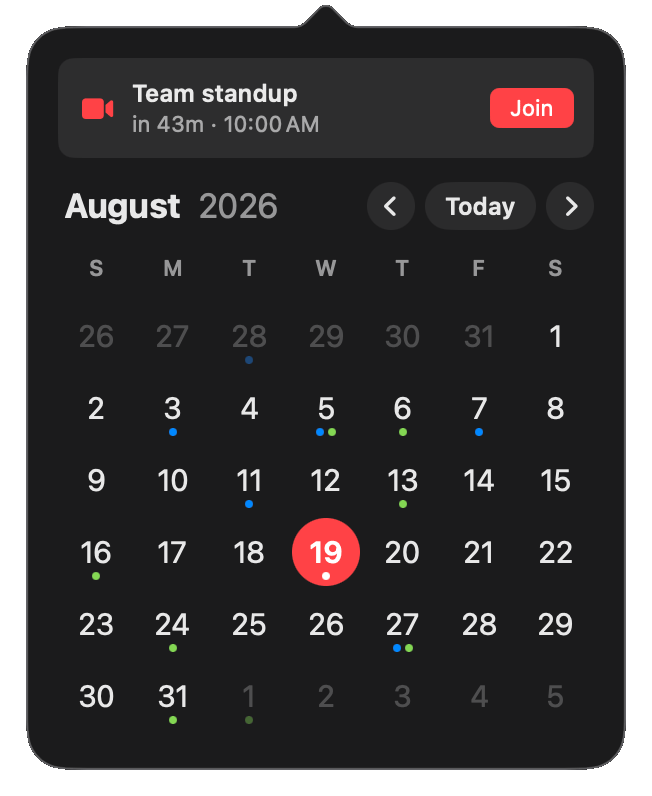
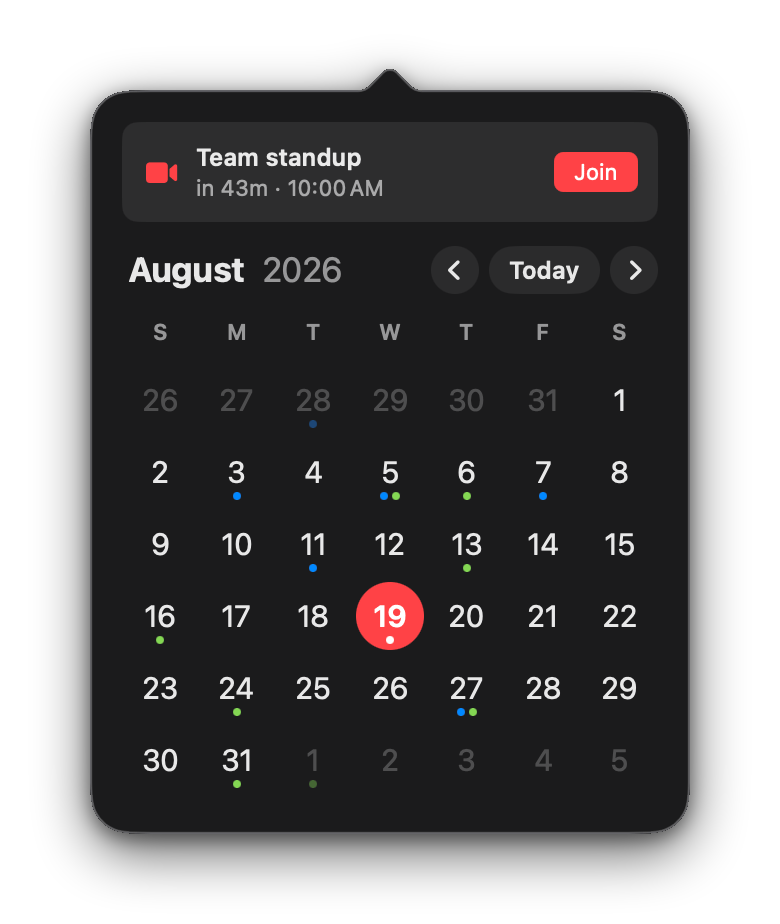
Give the README captures a drop shadow, and shrink the demo GIF
Without a shadow the popover dissolved into the page, worst on the GIF where
the flat backdrop matches GitHub's own colour exactly. Every capture now sits
on a two-layer shadow, ambient plus a tighter contact pass, weighted heavier
in dark where a black shadow has less to work against.

Stills take their silhouette from the alpha they were captured with. GIF
frames have no alpha left, so the silhouette is flood-filled inward from the
border: keying on colour alone would punch holes through the white fields
inside the create sheet. The fill samples the corner rather than the nominal
backdrop colour, since quantisation moves it (white lands on 250,250,252),
and its tolerance stays under the gap to the popover body.

Stills are no longer palette-quantised, which was banding the shadow ramp and
had already flattened the soft alpha edges to a hard cut. GIF drops to 480
wide as asked; section widths grow to offset the shadow padding so the UI
keeps the size it had on the page.

diff --git a/README.md b/README.md
@@ -21,7 +21,7 @@ your next meeting. Free and open source.</p>
 
 <picture>
 <source media="(prefers-color-scheme: dark)" srcset="docs/images/day-dark.png">
-<img src="docs/images/day-light.png" width="360" alt="CalPeek's popover showing the next meeting with a Join button, an August month grid with event dots, and a day agenda listing events and reminders">
+<img src="docs/images/day-light.png" width="393" alt="CalPeek's popover showing the next meeting with a Join button, an August month grid with event dots, and a day agenda listing events and reminders">
 </picture>
 
 </td>
@@ -33,7 +33,7 @@ your next meeting. Free and open source.</p>
 <p align="center">
 <picture>
 <source media="(prefers-color-scheme: dark)" srcset="docs/images/demo-dark.gif">
-<img src="docs/images/demo-light.gif" width="560" alt="Animation of CalPeek: the popover paging forward through months and back, opening a day for its agenda, and filling in a new event">
+<img src="docs/images/demo-light.gif" width="480" alt="Animation of CalPeek: the popover paging forward through months and back, opening a day for its agenda, and filling in a new event">
 </picture>
 </p>
 
@@ -41,7 +41,7 @@ your next meeting. Free and open source.</p>
 
 <picture>
 <source media="(prefers-color-scheme: dark)" srcset="docs/images/day-dark.png">
-<img src="docs/images/day-light.png" width="340" align="right" alt="CalPeek&apos;s popover with the August grid open and a day panel listing Team standup, Design review, Lunch with Sam and Portfolio review with their times">
+<img src="docs/images/day-light.png" width="373" align="right" alt="CalPeek&apos;s popover with the August grid open and a day panel listing Team standup, Design review, Lunch with Sam and Portfolio review with their times">
 </picture>
 
 The menu bar glyph shows the weekday and the day of the month, and it stays
@@ -60,7 +60,7 @@ leaving the popover.
 
 <picture>
 <source media="(prefers-color-scheme: dark)" srcset="docs/images/join-dark.png">
-<img src="docs/images/join-light.png" width="330" align="right" alt="CalPeek&apos;s popover with the next meeting pinned at the top, showing a countdown and a Join button">
+<img src="docs/images/join-light.png" width="362" align="right" alt="CalPeek&apos;s popover with the next meeting pinned at the top, showing a countdown and a Join button">
 </picture>
 
 CalPeek finds the video link in your next meeting and puts a Join button at
@@ -76,7 +76,7 @@ and a global hotkey joins it without opening anything.
 
 <picture>
 <source media="(prefers-color-scheme: dark)" srcset="docs/images/create-dark.png">
-<img src="docs/images/create-light.png" width="330" align="right" alt="CalPeek&apos;s create sheet with Event and Reminder tabs, a title reading Coffee with Dana, start and end times, repeat, and alert fields">
+<img src="docs/images/create-light.png" width="360" align="right" alt="CalPeek&apos;s create sheet with Event and Reminder tabs, a title reading Coffee with Dana, start and end times, repeat, and alert fields">
 </picture>
 
 Pick a day, hit +, type. Events and reminders both, with times, repeat rules,
@@ -97,7 +97,7 @@ bars on its own.
 <p align="center">
 <picture>
 <source media="(prefers-color-scheme: dark)" srcset="docs/images/appearance-dark.png">
-<img src="docs/images/appearance-light.png" width="420" alt="CalPeek&apos;s Appearance settings with color pickers for the weekday name, today&apos;s marker, calendar event dots, and reminder dots">
+<img src="docs/images/appearance-light.png" width="452" alt="CalPeek&apos;s Appearance settings with color pickers for the weekday name, today&apos;s marker, calendar event dots, and reminder dots">
 </picture>
 </p>
 
@@ -105,7 +105,7 @@ bars on its own.
 
 <picture>
 <source media="(prefers-color-scheme: dark)" srcset="docs/images/settings-dark.png">
-<img src="docs/images/settings-light.png" width="360" align="right" alt="CalPeek&apos;s General settings showing Launch at Login, Calendar and Reminders permissions, and Next Meeting options including a join shortcut">
+<img src="docs/images/settings-light.png" width="392" align="right" alt="CalPeek&apos;s General settings showing Launch at Login, Calendar and Reminders permissions, and Next Meeting options including a join shortcut">
 </picture>
 
 Launch at login, choose how far ahead the next meeting appears, and set the
